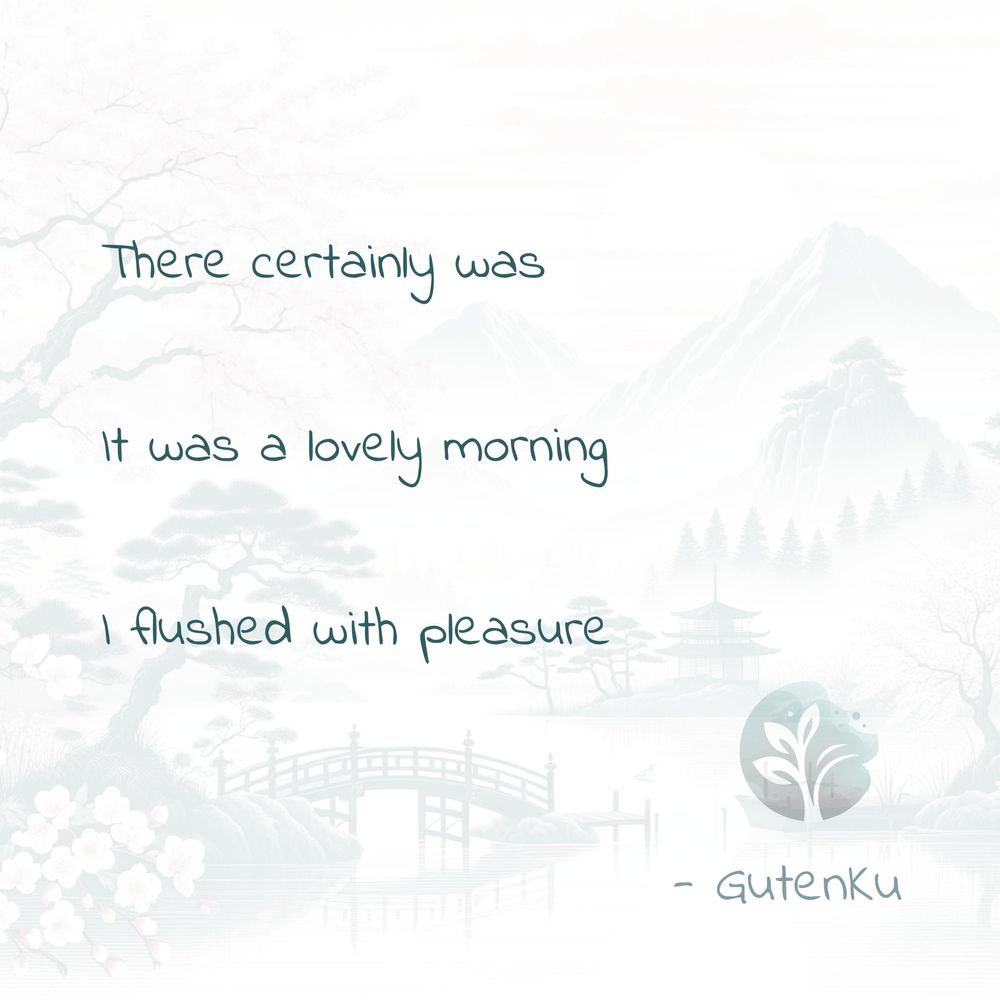
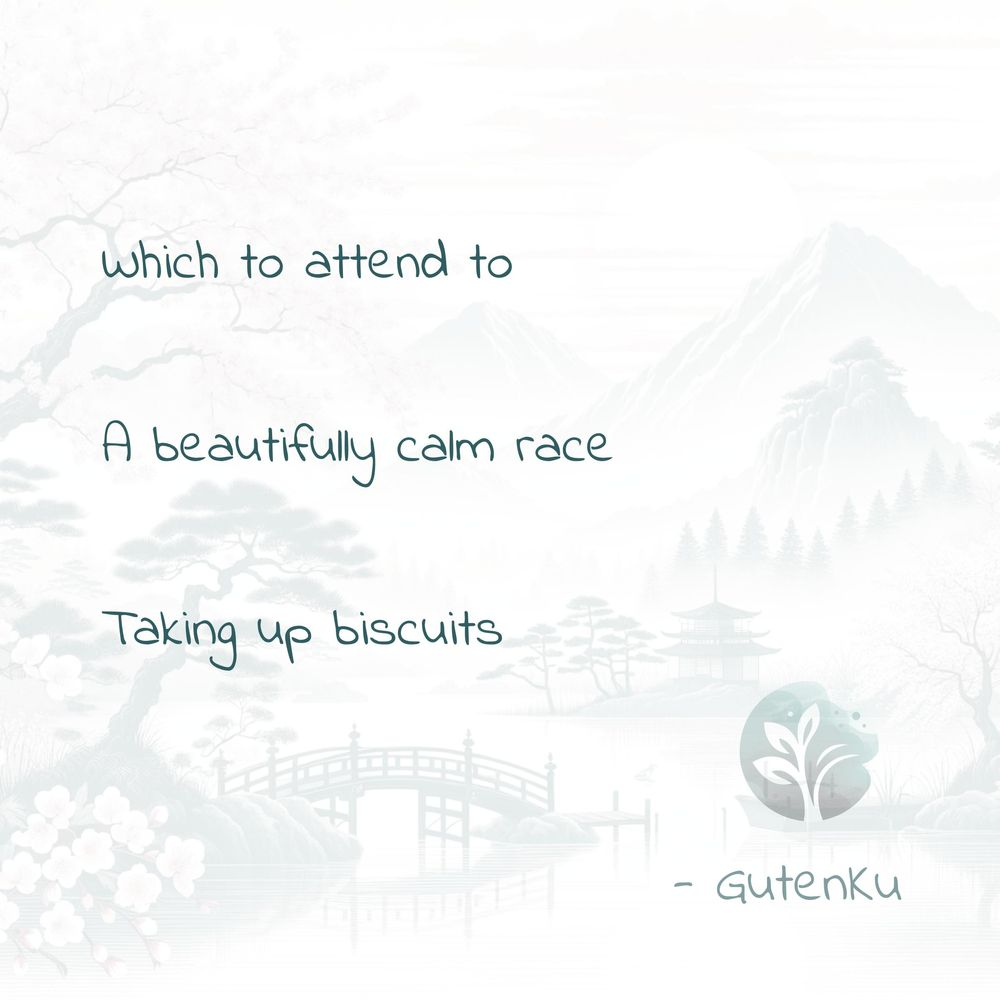
[Readme] Updated Daily Haiku Card

Changed region(s): [[0.093, 0.403, 0.62, 0.496], [0.093, 0.589, 0.62, 0.682], [0.093, 0.248, 0.558, 0.31]]

diff --git a/README.md b/README.md
@@ -2,9 +2,9 @@
 
 ## 🌸 Daily Haiku Card 🗻
 
-<img src="/assets/img/daily_haiku_card.jpg?t=1705190401" width="300" alt="Daily Haiku Card">
+<img src="/assets/img/daily_haiku_card.jpg?t=1705276802" width="300" alt="Daily Haiku Card">
 
-Last Snapshot: `Sun, 14 Jan 2024 00:00:01 +0000`
+Last Snapshot: `Mon, 15 Jan 2024 00:00:02 +0000`
 
 Want more? Visit 🔗[gutenku.xyz](https://gutenku.xyz) or come back tomorrow 😉
 
